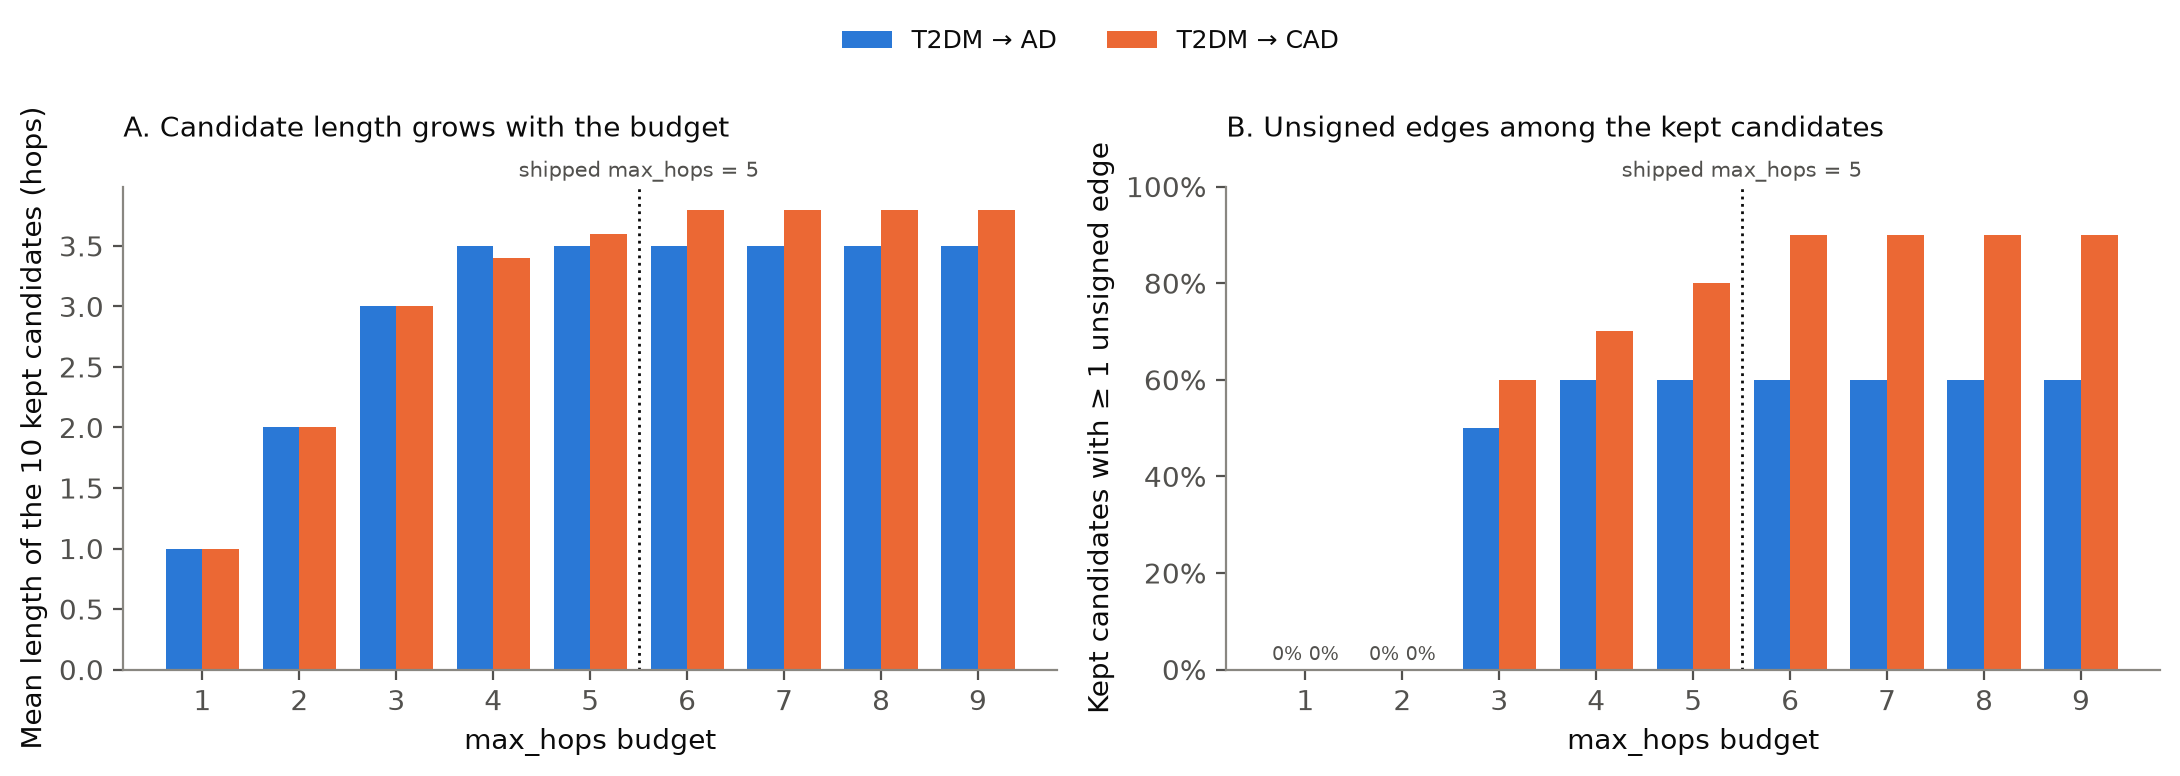
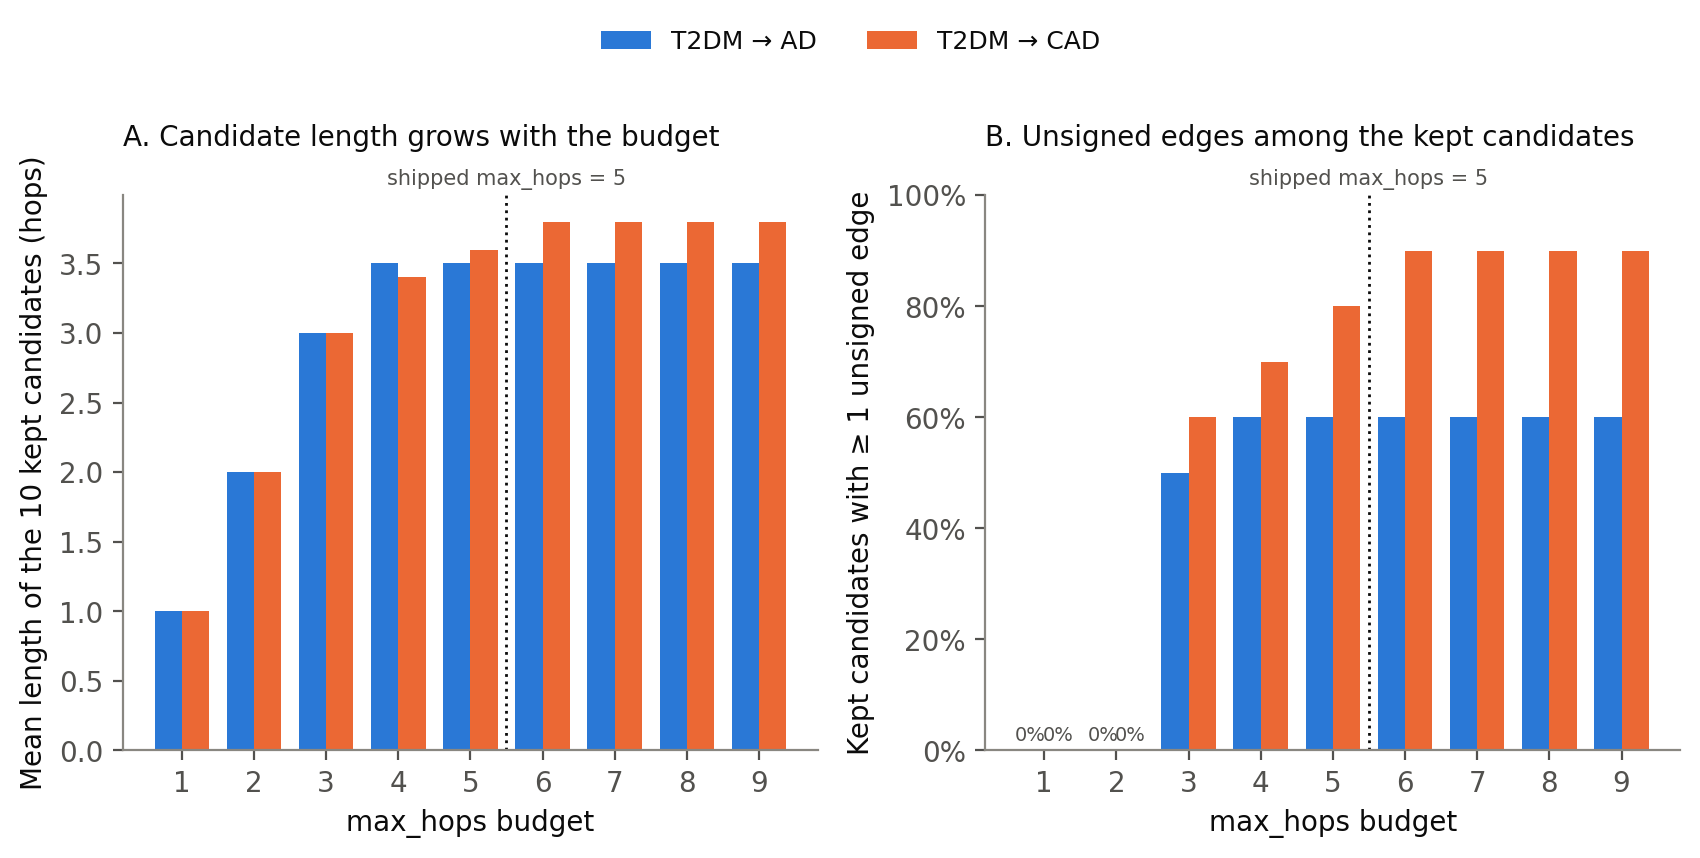
Larger hop-budget figures

diff --git a/scripts/max_hops_analysis.py b/scripts/max_hops_analysis.py
@@ -254,7 +254,7 @@ def make_figures(results: Dict[str, dict], out_dirs: Sequence[str]):
         return next(r for r in results[p]["rows"] if r["hops"] == h)
 
     # ---- Figure 1: yield and signal
-    fig, axes = plt.subplots(1, 2, figsize=(11, 3.9))
+    fig, axes = plt.subplots(1, 2, figsize=(8.6, 4.3))
     ax = axes[0]
     for k, p in enumerate(pairs):
         ax.bar([h + (k - 1) * width for h in hops], [row(p, h)["new_paths"] for h in hops], width=width, color=colors[p], label=labels[p])
@@ -282,7 +282,7 @@ def make_figures(results: Dict[str, dict], out_dirs: Sequence[str]):
     save(fig, "fig_maxhops_yield.png", out_dirs)
 
     # ---- Figure 2: quality and cost
-    fig, axes = plt.subplots(1, 2, figsize=(11, 3.9))
+    fig, axes = plt.subplots(1, 2, figsize=(8.6, 4.3))
     ax = axes[0]
     for k, p in enumerate(pairs):
         vals = [row(p, h)["fraction_fully_signed"] for h in hops]
@@ -310,7 +310,7 @@ def make_figures(results: Dict[str, dict], out_dirs: Sequence[str]):
     save(fig, "fig_maxhops_quality_cost.png", out_dirs)
 
     # ---- Figure 3: what the 10 candidates handed to the LLM look like, by hop budget
-    fig, axes = plt.subplots(1, 2, figsize=(11, 3.9))
+    fig, axes = plt.subplots(1, 2, figsize=(8.6, 4.3))
     ax = axes[0]
     for k, p in enumerate(pairs):
         ax.bar([h + (k - 0.5) * width * 1.4 for h in hops], [row(p, h)["kept_mean_hops"] or 0 for h in hops], width=width * 1.4, color=colors[p], label=labels[p])
